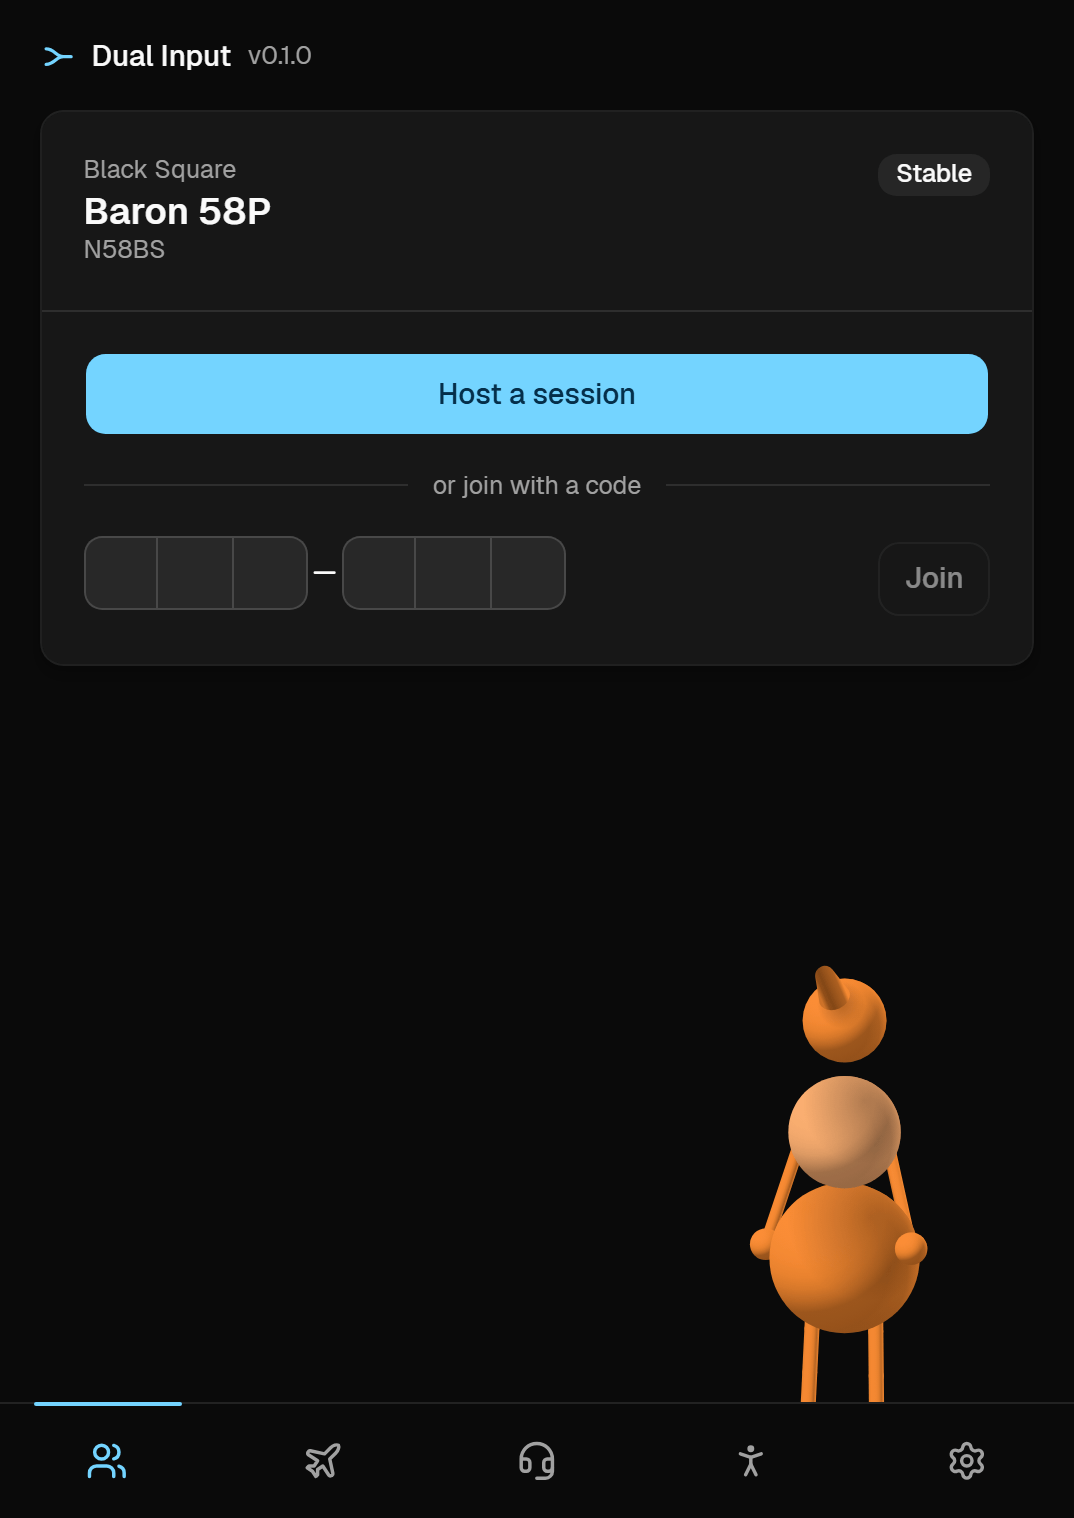
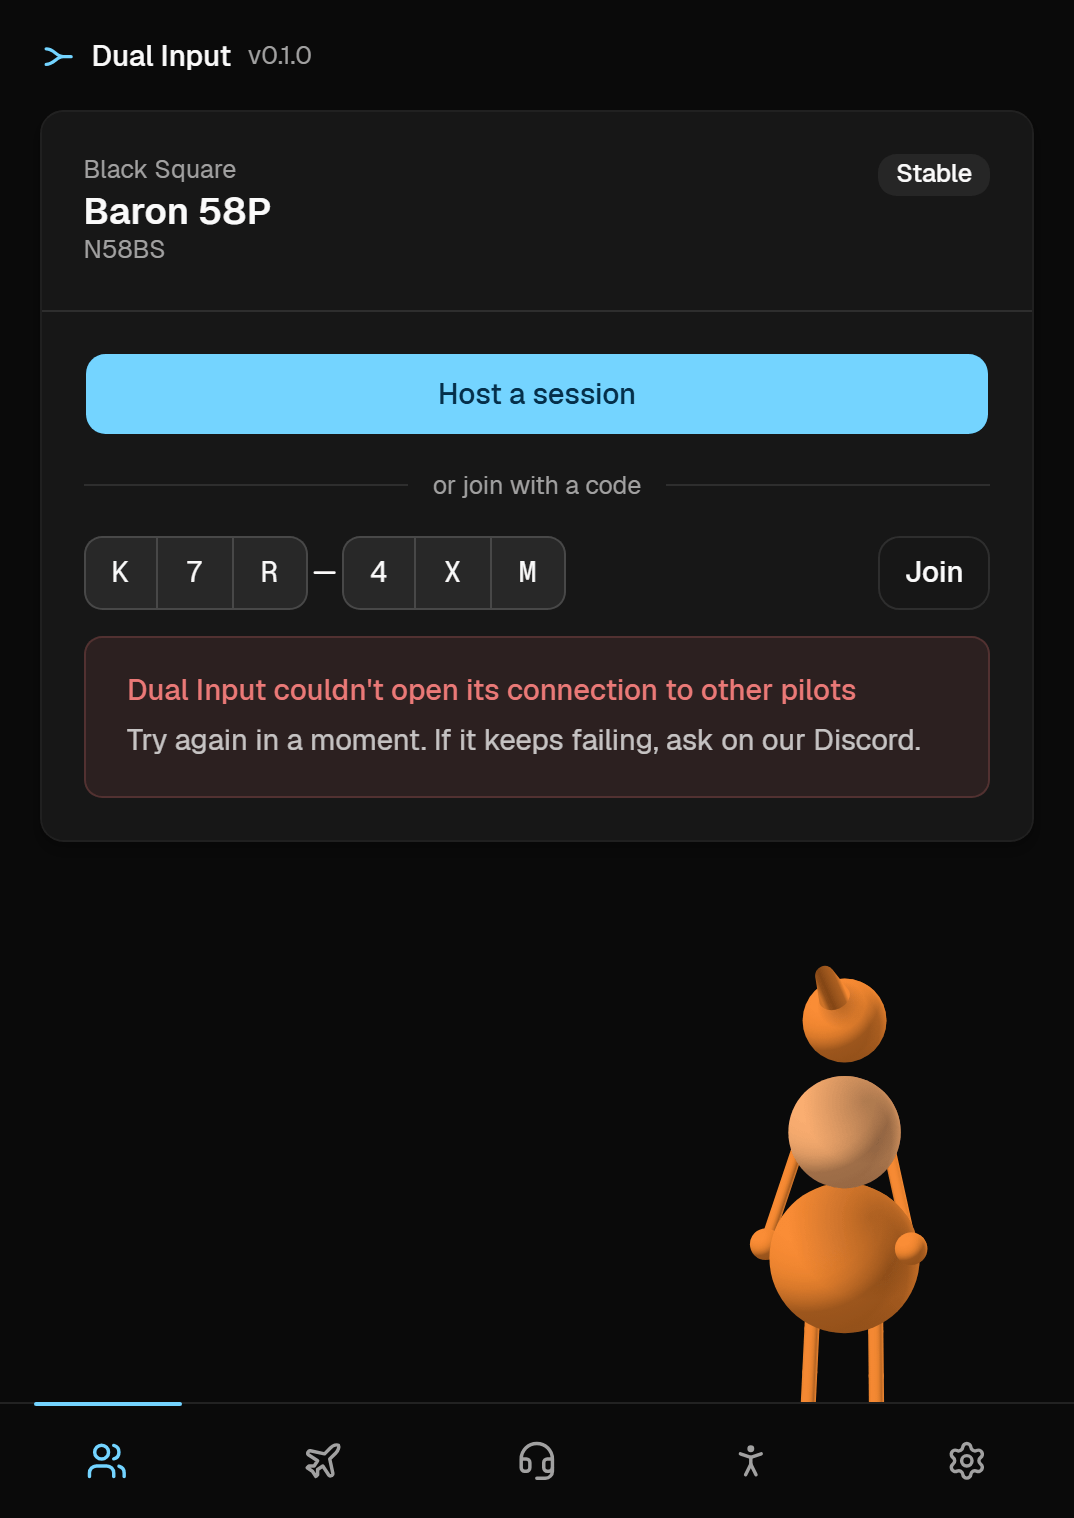
docs: picture the start card's refusals, not the card before them
The four refusal scenes of the EFB app's stand-in only armed the refusal, which
showed once a person pressed Host or Join, so their pictures showed the start
card with no message. Each now starts its attempt the way the core starts one
for a code on the clipboard, and its picture shows the refusal's words, or the
slow join's "Still trying" after 6s, which the docs' page on failing to connect
uses.

diff --git a/src/platform/efb-shell/dev/stand-in.ts b/src/platform/efb-shell/dev/stand-in.ts
@@ -153,6 +153,12 @@ const LOCAL: DesktopState = { update: { state: "current", checked: "4 minutes ag
 const REFUSING = "refusing"
 /** What a scene puts on the clipboard, which is no slice of the core's either. */
 const CLIPBOARD = "clipboard"
+/**
+ * What a scene has the stand-in try as it starts, as the core does with a code on the clipboard, so the scene shows the
+ * answer its `REFUSING` gives without a press of Host or Join. It's no slice of the core's either.
+ */
+const ATTEMPTING = "attempting"
+type Trying = { on: "host" | "join"; code?: string }
 
 /** Each state a person looks at, by name, with what it sets on top of the sim's healthy slices. */
 export const SCENES: Record<string, Slices> = {
@@ -167,10 +173,10 @@ export const SCENES: Record<string, Slices> = {
   "Before a session": {},
   "No profile for the aircraft": { sim: fenix, profiles: NO_PROFILE },
   "No profile, in a flight": { sim: { ...fenix, where: "flight" }, profiles: NO_PROFILE },
-  "Servers refuse": { [REFUSING]: "servers" },
-  "No session has the code": { [REFUSING]: "no-code" },
-  "Connection won't open": { [REFUSING]: "no-connection" },
-  "Too slow to answer": { [REFUSING]: "slow" },
+  "Servers refuse": { [REFUSING]: "servers", [ATTEMPTING]: { on: "host" } },
+  "No session has the code": { [REFUSING]: "no-code", [ATTEMPTING]: { on: "join", code: CODE } },
+  "Connection won't open": { [REFUSING]: "no-connection", [ATTEMPTING]: { on: "join", code: CODE } },
+  "Too slow to answer": { [REFUSING]: "slow", [ATTEMPTING]: { on: "join", code: CODE } },
   "A code on the clipboard": { [CLIPBOARD]: CODE },
   "Alone in a session": { session: held({ members: [me(atMenu)] }) },
   "James joins": { session: held({ members: [me(atMenu), james({ ...atMenu, stage: "loading" })] }) },
@@ -251,9 +257,11 @@ export const SCENES: Record<string, Slices> = {
 /**
  * How long a scene runs before tools/screenshots.ts takes its picture, in ms of its own time, where the tool's 5s would
  * catch it too early: setup greets the pilot for 2s and then runs its checks one by one, reaching the name card at about
- * 9s, or stopping at the check that fails.
+ * 9s, or stopping at the check that fails, and a join says it's still trying only 6s in (`SLOW_AFTER` in
+ * src/platform/efb-shell/src/session/session-tab.tsx).
  */
 export const SCENE_TIMES: Partial<Record<string, number>> = {
+  "Too slow to answer": 8_000,
   "First-time setup": 12_000,
   "Setup: add-on mismatch": 12_000,
   "Setup: offline": 12_000,
@@ -318,7 +326,11 @@ export class StandInCore extends StandInBase {
     this.local = DESKTOP in scene ? (scene[DESKTOP] as DesktopState | null) : LOCAL
     this.tellDesktop()
     this.set({ settings: settings(true, true) })
-    window.setTimeout(() => this.set({ ...healthy, [TAKE_CONTROL]: control({ live: false }), [STREAM]: { catching_up: false, from_preflight_end: false, replaying: false }, recording: { runs: RUNS, stopped: null }, "core-helper": { ...OUTPUTS, outputs: [] }, notifications: [], core: CORE, avatars: { note: null }, [TRAFFIC]: noTraffic, [ATC]: { capturing: null }, [GO_TO]: noJoin, ...scene }), 0)
+    const trying = scene[ATTEMPTING] as Trying | undefined
+    window.setTimeout(() => {
+      this.set({ ...healthy, [TAKE_CONTROL]: control({ live: false }), [STREAM]: { catching_up: false, from_preflight_end: false, replaying: false }, recording: { runs: RUNS, stopped: null }, "core-helper": { ...OUTPUTS, outputs: [] }, notifications: [], core: CORE, avatars: { note: null }, [TRAFFIC]: noTraffic, [ATC]: { capturing: null }, [GO_TO]: noJoin, ...scene })
+      if (trying) this.attempt(trying.on, trying.code ?? null)
+    }, 0)
   }
 
   private setControl(changes: Record<string, unknown>): void {
